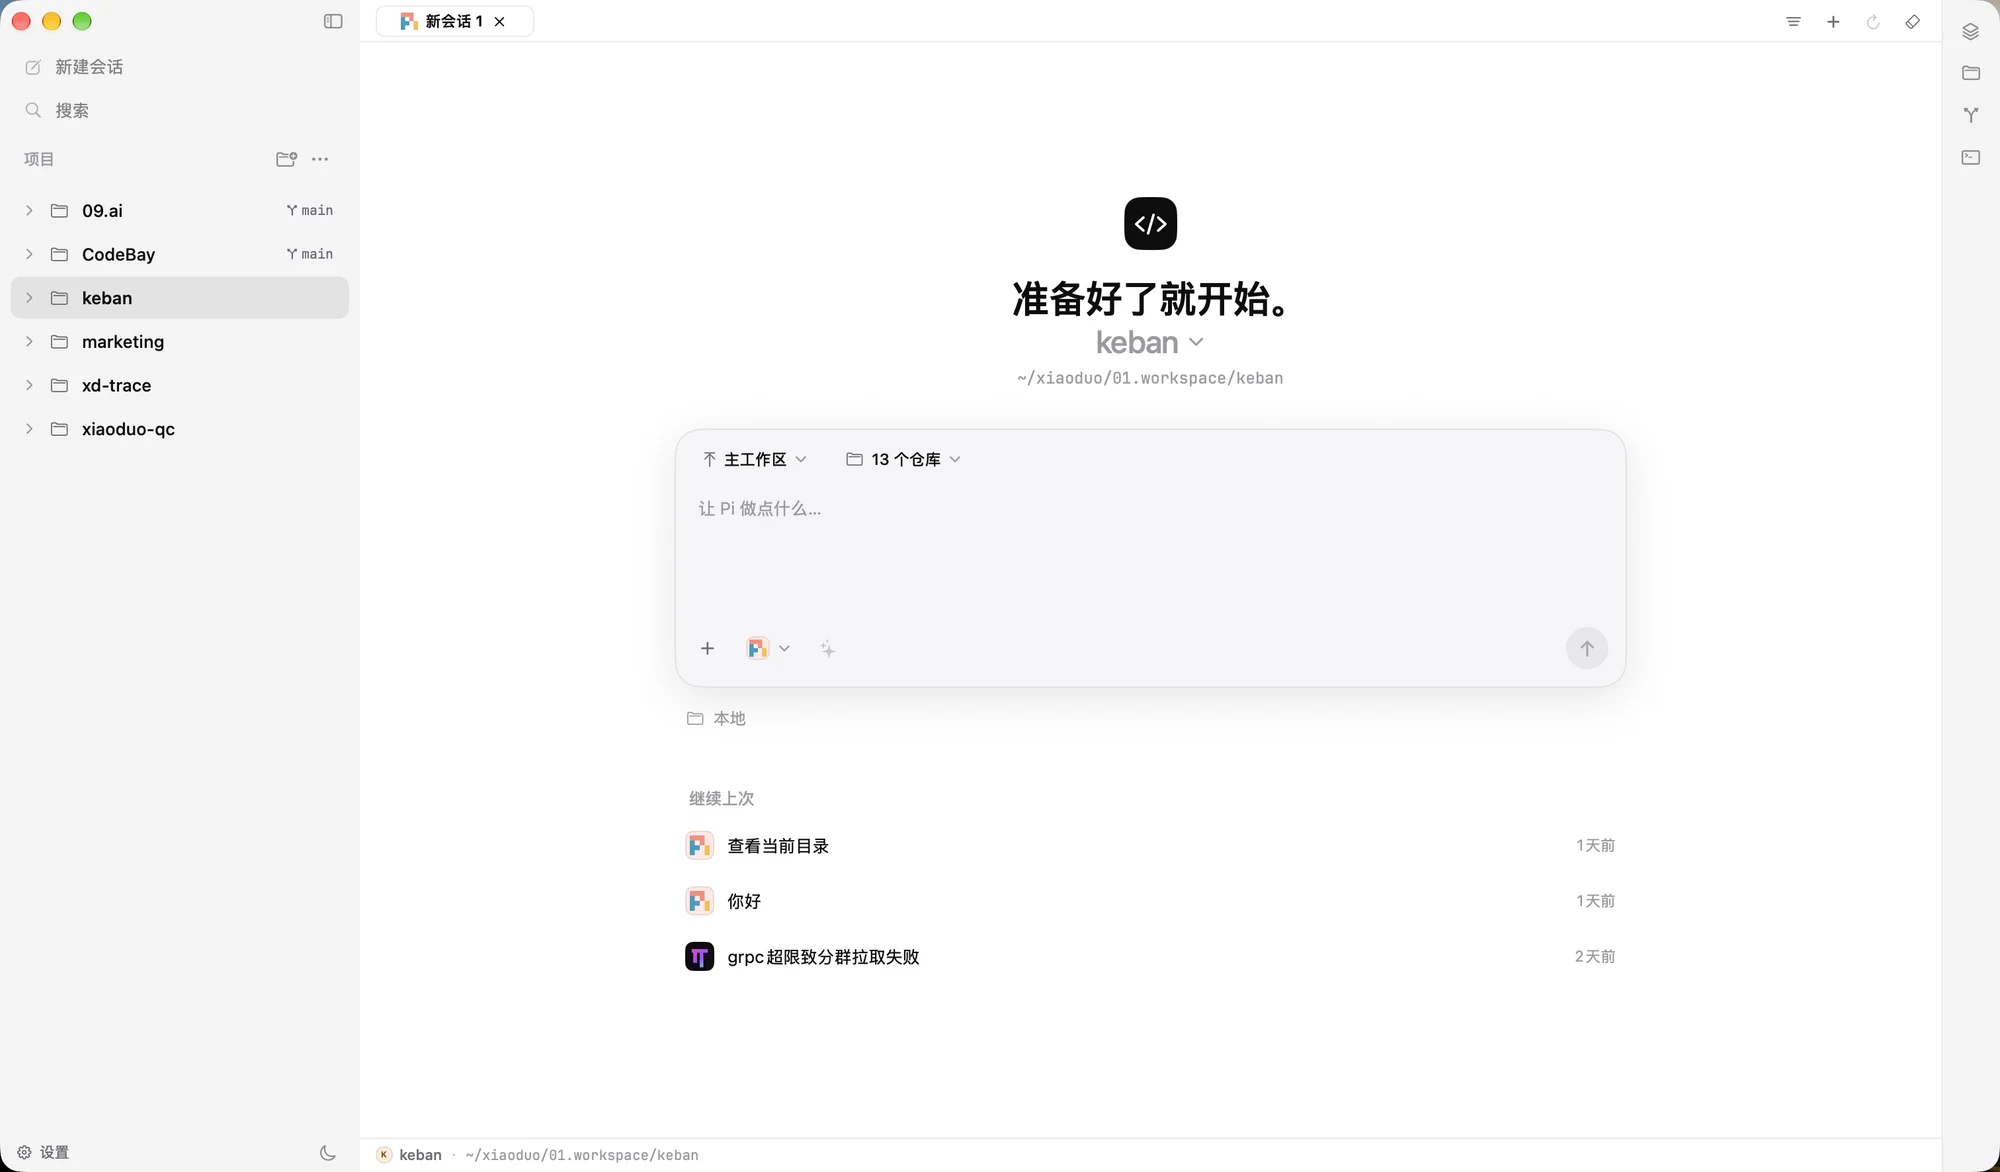
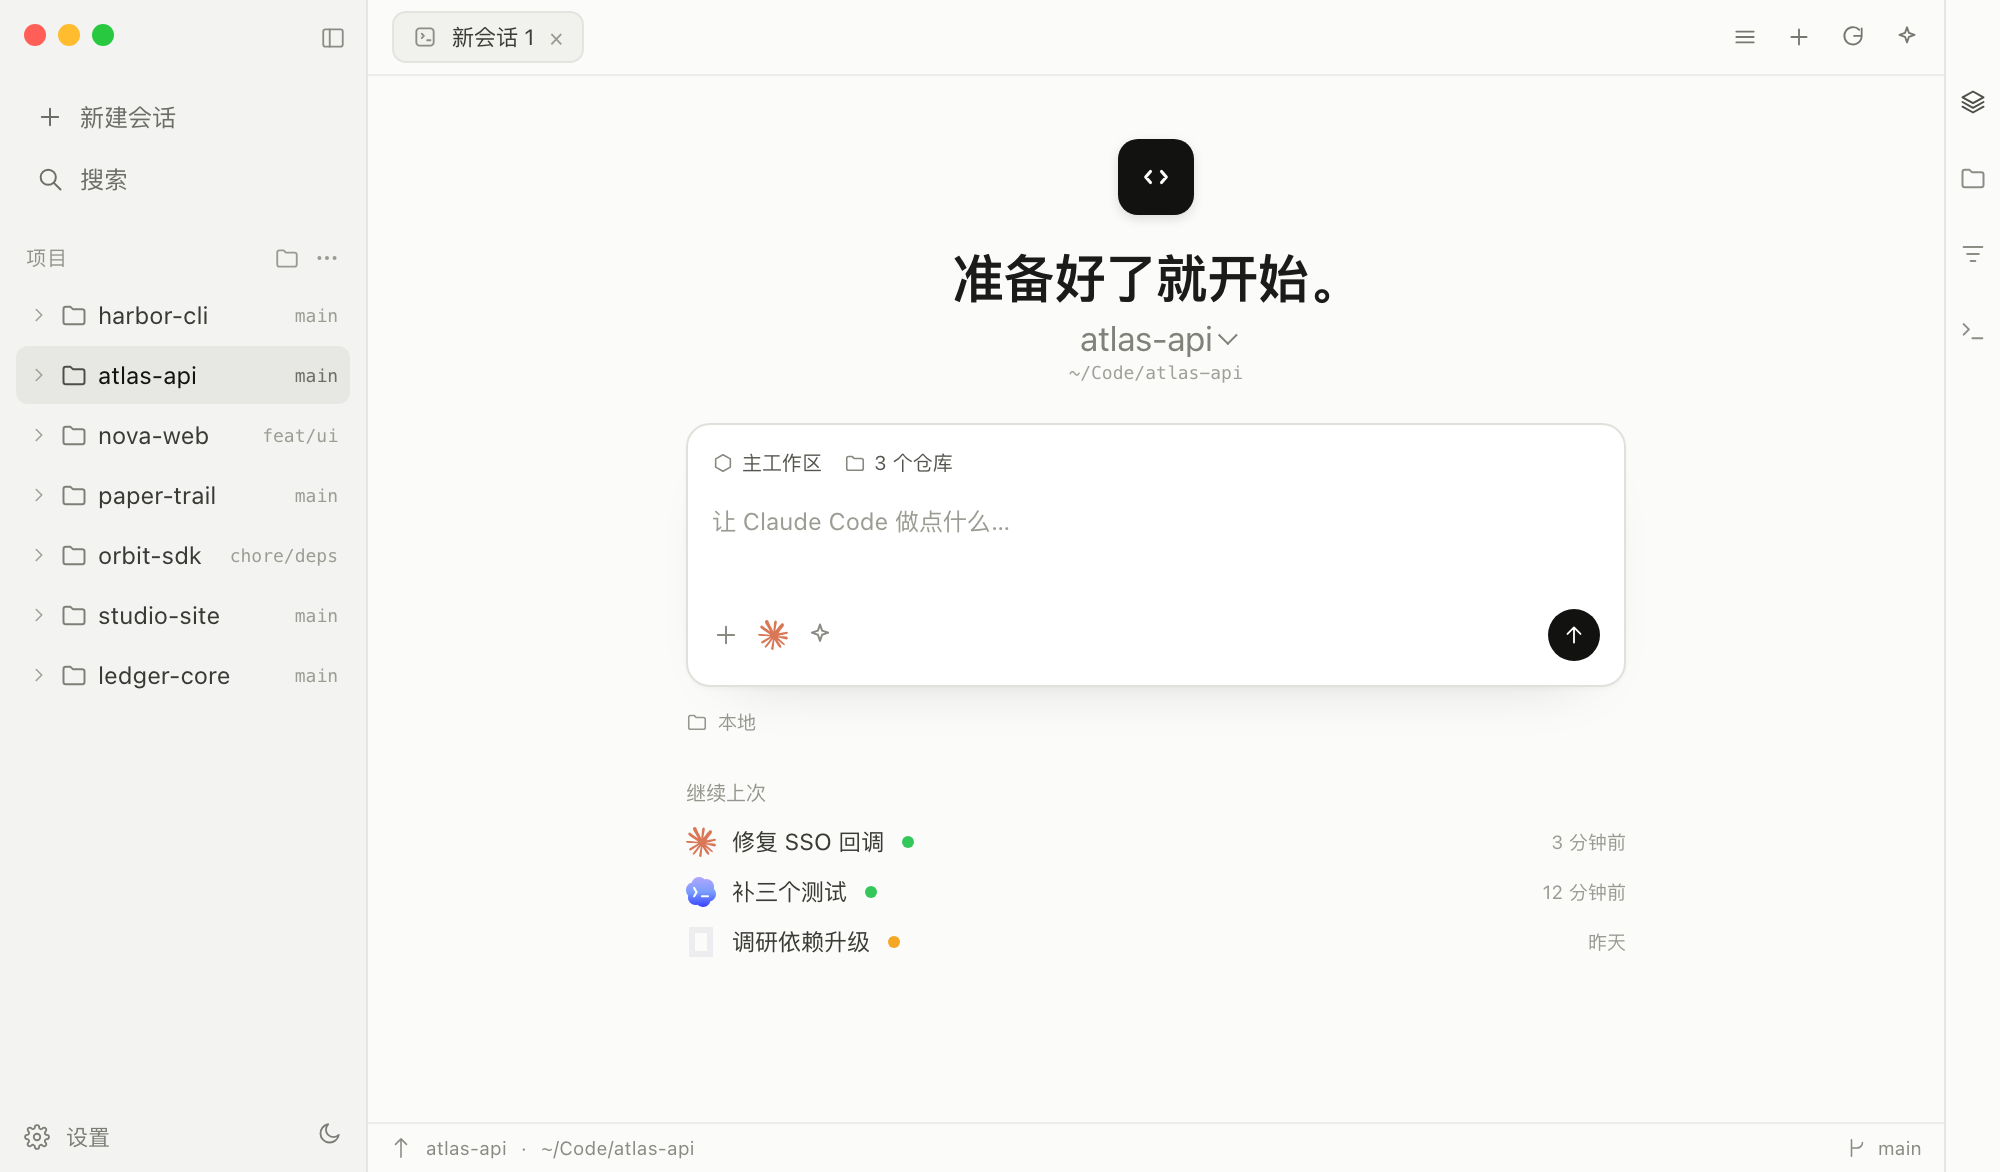
feat(官网): 用虚构项目重做界面示意图
- 新截图为虚构项目（harbor-cli / atlas-api / nova-web / paper-trail / orbit-sdk / studio-site / ledger-core），不包含真实项目名与路径
- hero.webp 与 hero-og.png 均为 2000x1172；页面示例项目名同步替换，chrome 标注「界面示意」
- 删除未使用的旧截图 composer/diff/git；生成源放在 Scripts/hero-mock.html
- README 记录示意图来源与生成方式

diff --git a/index.html b/index.html
@@ -198,13 +198,13 @@
                 <span class="term-kbd"><span class="kbd">⌘</span><span class="kbd">K</span></span>
               </div>
               <div class="term-tabs">
-                <span class="ttab active"><i class="dot dot-mint"></i>keban · claude</span>
-                <span class="ttab"><i class="dot dot-mint"></i>keban · codex</span>
-                <span class="ttab"><i class="dot dot-amber"></i>xd-trace · pi</span>
+                <span class="ttab active"><i class="dot dot-mint"></i>atlas-api · claude</span>
+                <span class="ttab"><i class="dot dot-mint"></i>atlas-api · codex</span>
+                <span class="ttab"><i class="dot dot-amber"></i>nova-web · pi</span>
                 <span class="ttab ttab-add">+</span>
               </div>
               <div class="term-body">
-                <div class="term-cwd"><span class="tpath">~/VibeCodeProjects/keban</span><span class="tbranch">main</span></div>
+                <div class="term-cwd"><span class="tpath">~/Code/atlas-api</span><span class="tbranch">main</span></div>
                 <div class="term-cmd"><span class="tprompt">›</span> <span id="typeText">修登录、补测试、调研依赖——别让它们互相打架。</span><i class="caret" id="typeCaret"></i></div>
                 <div class="term-rows" id="termRows">
                   <div class="trow" data-row>
@@ -289,7 +289,7 @@
           <div class="story-stage" id="storyStage">
             <div class="chaos" id="chaos" aria-hidden="true">
               <div class="chaos-card ct-1" style="--x: 3%; --y: 10%; --r: -7deg">
-                <div class="ct-bar"><i></i><i></i><i></i><span>claude · keban</span></div>
+                <div class="ct-bar"><i></i><i></i><i></i><span>claude · atlas-api</span></div>
                 <pre>› 帮我排查 grpc 超限…</pre>
               </div>
               <div class="chaos-card ct-2" style="--x: 18%; --y: 58%; --r: 5deg">
@@ -312,7 +312,7 @@ found with id</pre>
               </div>
               <div class="chaos-card ct-6" style="--x: 5%; --y: 70%; --r: 4deg">
                 <div class="ct-bar"><i></i><i></i><i></i><span>zsh</span></div>
-                <pre>~/marketing $ _</pre>
+                <pre>~/paper-trail $ _</pre>
               </div>
               <div class="chaos-card ct-7" style="--x: 70%; --y: 68%; --r: -5deg">
                 <div class="ct-bar"><i></i><i></i><i></i><span>deepseek</span></div>
@@ -329,12 +329,12 @@ found with id</pre>
             <div class="shot-frame" id="shotFrame">
               <div class="shot-chrome">
                 <span class="tdot tdot-r"></span><span class="tdot tdot-y"></span><span class="tdot tdot-g"></span>
-                <span class="shot-url">CodeBay — 三个 Agent，一个窗口</span>
+                <span class="shot-url">CodeBay — 界面示意</span>
                 <span class="shot-badge"><i class="dot dot-amber"></i> 1 等你确认</span>
               </div>
               <img
                 class="shot-img"
-                alt="CodeBay 主界面：左栏按项目组织会话，中栏运行 Agent，右侧是工作树、文件、Git 与终端 dock"
+                alt="CodeBay 主界面示意图：左栏按项目组织会话，中栏运行 Agent，右侧是工作树、文件、Git 与终端 dock"
                 width="2000"
                 height="1172"
                 src="assets/shots/hero.webp"
@@ -369,7 +369,7 @@ found with id</pre>
                 <div><h3>一个项目，所有会话</h3><p>JSONL、SQLite、zstd 的差异收在适配层；只索引元数据与可恢复性，不复制对话。</p></div>
               </header>
               <div class="mock-proj">
-                <div class="proj-head"><svg class="ic chev"><use href="#i-chevron" /></svg><b>keban</b><span class="branch-pill">main</span><span class="live"><i class="dot dot-mint"></i>3 运行中</span></div>
+                <div class="proj-head"><svg class="ic chev"><use href="#i-chevron" /></svg><b>atlas-api</b><span class="branch-pill">main</span><span class="live"><i class="dot dot-mint"></i>3 运行中</span></div>
                 <div class="sess-row"><img src="assets/agents/claudecode.svg" alt="" width="16" height="16" /><span class="sess-name">修登录 · SSO 回调死循环</span><span class="sess-meta">Claude Code · 3 分钟前</span><span class="ttag ttag-run">运行中</span></div>
                 <div class="sess-row"><img src="assets/agents/codex.svg" alt="" width="16" height="16" /><span class="sess-name">补认证测试 · 三个用例</span><span class="sess-meta">Codex · 12 分钟前</span><span class="ttag ttag-run">运行中</span></div>
                 <div class="sess-row"><img src="assets/agents/pi.svg" alt="" width="16" height="16" /><span class="sess-name">调研依赖升级</span><span class="sess-meta">Pi · 28 分钟前</span><span class="ttag ttag-wait">等你确认</span></div>
@@ -432,10 +432,10 @@ found with id</pre>
               <div class="palette-mock">
                 <div class="pal-search"><svg class="ic"><use href="#i-search" /></svg><span>grpc</span><span class="pal-esc">Esc</span></div>
                 <div class="pal-group">会话 · 2</div>
-                <div class="pal-row pal-active"><span class="pal-icon"><svg class="ic"><use href="#i-terminal" /></svg></span><div><b>grpc 超限分群拉取失败</b><small>keban · DeepSeek · 2 天前</small></div><span class="pal-enter">↩</span></div>
-                <div class="pal-row"><span class="pal-icon"><svg class="ic"><use href="#i-terminal" /></svg></span><div><b>grpc 重试策略与超时</b><small>xd-trace · Codex · 昨天</small></div></div>
+                <div class="pal-row pal-active"><span class="pal-icon"><svg class="ic"><use href="#i-terminal" /></svg></span><div><b>grpc 超限分群拉取失败</b><small>atlas-api · DeepSeek · 2 天前</small></div><span class="pal-enter">↩</span></div>
+                <div class="pal-row"><span class="pal-icon"><svg class="ic"><use href="#i-terminal" /></svg></span><div><b>grpc 重试策略与超时</b><small>nova-web · Codex · 昨天</small></div></div>
                 <div class="pal-group">文件 · 1</div>
-                <div class="pal-row"><span class="pal-icon"><svg class="ic"><use href="#i-file" /></svg></span><div><b>internal/grpc/client.go</b><small>keban · 128 行</small></div></div>
+                <div class="pal-row"><span class="pal-icon"><svg class="ic"><use href="#i-file" /></svg></span><div><b>internal/grpc/client.go</b><small>atlas-api · 128 行</small></div></div>
               </div>
             </article>
 
@@ -507,12 +507,12 @@ found with id</pre>
             <div class="demo-window">
               <div class="demo-bar">
                 <span class="tdot tdot-r"></span><span class="tdot tdot-y"></span><span class="tdot tdot-g"></span>
-                <span class="demo-title">keban — Claude Code</span>
+                <span class="demo-title">atlas-api — Claude Code</span>
                 <span class="demo-state" id="demoState"><i class="dot dot-mint"></i><span>运行中</span></span>
               </div>
               <div class="demo-body">
                 <div class="demo-term" id="demoTerm">
-                  <div class="dline dim">~/VibeCodeProjects/keban <span class="tbranch">main</span></div>
+                  <div class="dline dim">~/Code/atlas-api <span class="tbranch">main</span></div>
                   <div class="dline"><span class="tprompt">›</span> 修一下 SSO 回调的死循环，顺便补三个测试</div>
                   <div class="dline dim" data-demo-line>● 读取 internal/auth/sso.go</div>
                   <div class="dline dim" data-demo-line>● 修改 4 个文件 · 运行 go test ./internal/auth</div>
@@ -532,7 +532,7 @@ found with id</pre>
 
             <div class="demo-notify" id="demoNotify">
               <div class="notify-head"><img src="assets/logo.png" alt="" width="18" height="18" /><b>CodeBay</b><small>现在</small><button class="notify-x" id="demoNotifyClose" type="button" aria-label="关闭通知"><svg class="ic"><use href="#i-close" /></svg></button></div>
-              <p><b>Claude Code 在等你确认</b><span>keban · 修登录 · SSO 回调死循环</span></p>
+              <p><b>Claude Code 在等你确认</b><span>atlas-api · 修登录 · SSO 回调死循环</span></p>
               <div class="notify-actions"><button type="button" class="notify-go" id="demoGo">去看看</button><button type="button" class="notify-later" id="demoLater">稍后</button></div>
             </div>
 
